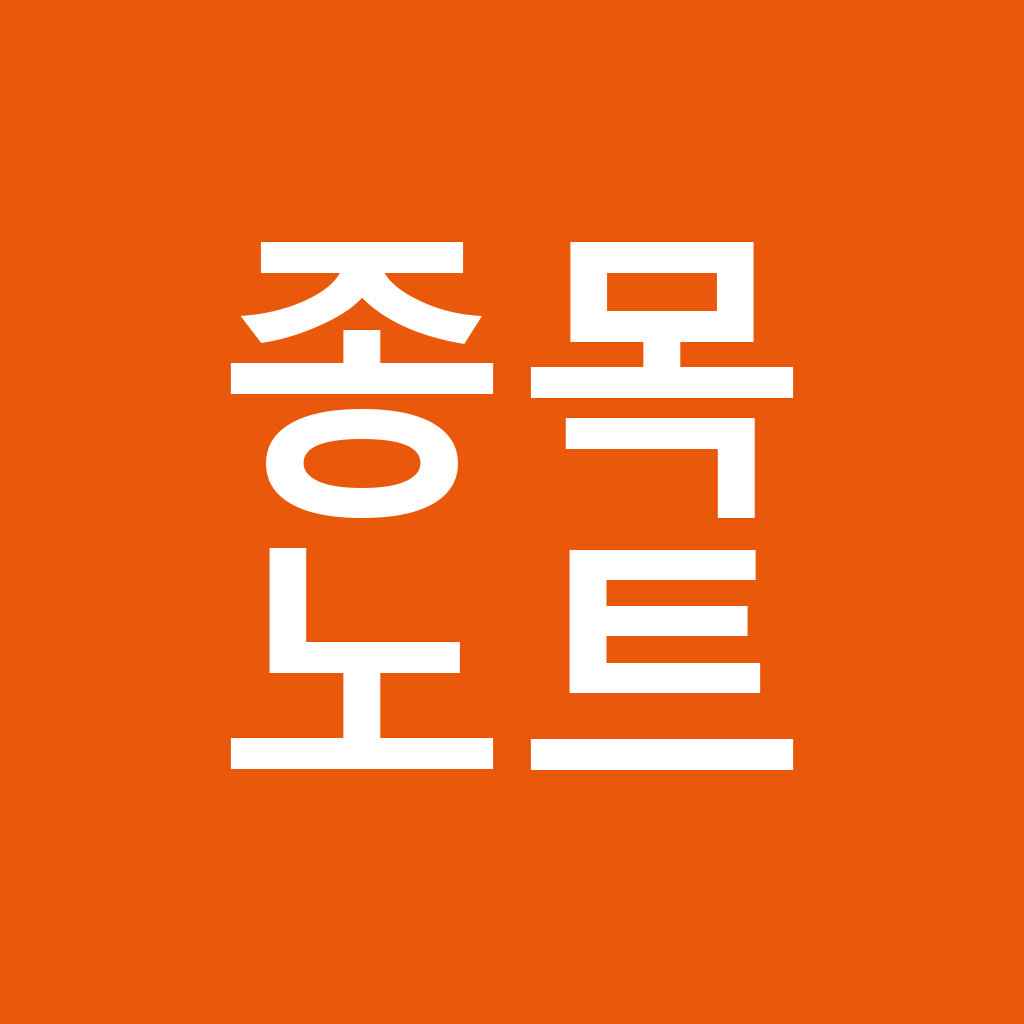
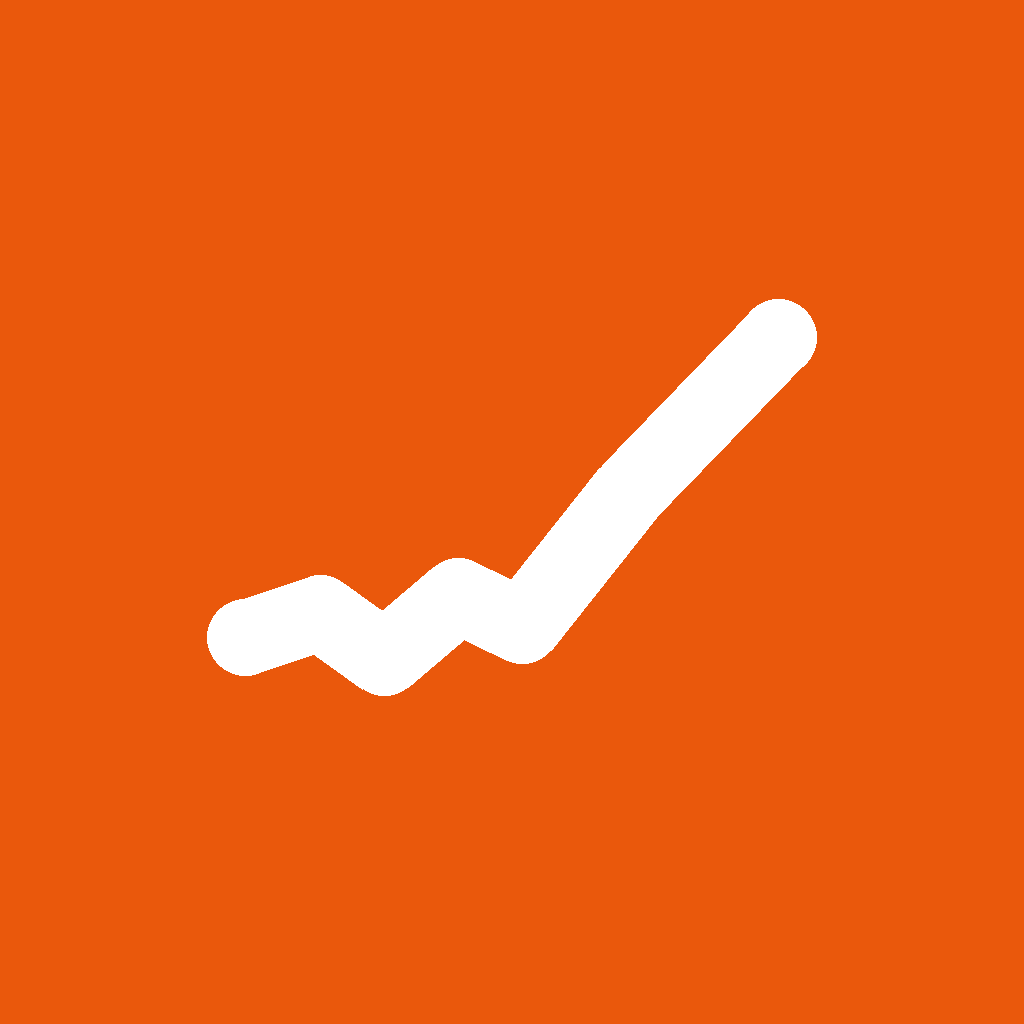
feat: 프로필 사진을 글자 대신 표식으로 바꾼다
프로필 사진이 실제로 노출되는 크기는 피드에서 40px 안팎이다. 그 크기에서
읽히느냐가 전부인데, 예전 안("종목노트" 2x2)을 40px로 줄여보면 네 글자의
획이 서로 붙어 흰 얼룩이 된다. 한 줄로 쓰던 것을 2x2로 접은 것이 이미 한
번의 개선이었지만, 한글 네 글자는 그 크기가 담을 수 있는 양을 넘는다.

후보 넷을 그려 40px로 줄여 비교했다. 점선 저항선을 얹은 안은 점선이
노이즈가 되고, 글자만 키운 안은 여전히 뭉갠다. 글자를 빼고 표식 하나만
남긴 안이 분명히 나았다.

표식은 바닥을 다지다 위로 뚫고 나가는 선이다. stage2.kr이라는 이름이
가리키는 것이 그대로 이 모양이라, 사이트가 하는 일과 표식이 같은 말을
한다. 소개 페이지에 그린 주가 4단계 그림과도 이어진다.

바탕 주황(card.ACCENT)은 그대로 둔다. 작은 크기에서 계정을 알아보게
하는 건 모양보다 색 덩어리고, 피드에 뜬 카드와 프로필이 한 계정으로
읽히려면 같은 주황이어야 한다.

선 두께는 1024에서 76이다. 40px로 줄면 약 3px이 된다. 더 얇으면 축소
과정에서 회색으로 흐려지고, 두꺼우면 곡선의 방향이 뭉개진다.

피드 40px / 댓글 80px / 프로필 150px에서 모두 읽히는 것을 확인했다.
원형 크롭도 다시 쟀다. 표식의 가장 먼 끝이 중심에서 389px이고 원의
반지름은 512px이라 잘리지 않는다.

Claude-Session: https://claude.ai/code/session_01Md3x43wFQqhurwHYex514T

Changed region(s): [[0.1875, 0.2188, 0.8125, 0.75]]

diff --git a/scripts/make_avatar.py b/scripts/make_avatar.py
@@ -2,19 +2,29 @@
 """
 SNS 프로필 사진을 그린다.
 
-프로필 사진은 피드에서 40px 안팎으로 뜬다. 예전 아바타는 "stage2"를
-가로로 얹어서 그 크기에서는 글자가 아예 뭉갰다. 그래서 두 가지를 지킨다.
+프로필 사진이 실제로 노출되는 크기는 피드에서 40px 안팎이다. 그 크기에서
+읽히느냐가 전부고, 1024px로 봤을 때 예쁜지는 거의 상관이 없다.
 
-1. 글자는 2x2로 접는다. "종목노트"를 한 줄로 쓰면 40px에서 못 읽는다.
-2. 바탕을 강조색으로 꽉 채운다. 작은 크기에서 실제로 계정을 알아보게
-   하는 건 글자가 아니라 색 덩어리다. 카드 위쪽 띠와 같은 주황이라
-   피드에 뜬 카드와 프로필이 한 계정으로 읽힌다.
+예전 안은 "종목노트"를 2x2로 접어 넣었다. 한 줄보다는 나았지만 40px로
+줄여보면 네 글자의 획이 서로 붙어 흰 얼룩이 된다. 실제로 줄여서 확인했다.
+한글 네 글자는 그 크기에 담을 수 있는 정보량을 넘는다.
 
-글자는 흰색이다. 수치상 대비는 진한 글씨가 더 높지만(4.98 대 3.56),
-40px로 줄여보면 진한 획이 주황 중간톤에 묻혀 뭉개진다. 실제로 노출되는
-크기에서 읽히는 쪽을 골랐다.
+그래서 글자를 빼고 표식 하나만 남긴다.
 
-플랫폼이 정사각을 원으로 잘라내므로 글자를 안쪽 원 안에 둔다.
+  바닥을 다지다 위로 뚫고 나가는 선
+
+stage2.kr이라는 이름이 가리키는 것이 그대로 이 모양이다. 주가가 오래
+눌려 있다가(1단계) 방향을 틀어 올라가는(2단계) 구간만 찾는다는 뜻이고,
+사이트가 하는 일과 표식이 같은 말을 한다.
+
+바탕은 카드 위쪽 띠와 같은 주황(card.ACCENT)이다. 작은 크기에서 계정을
+알아보게 하는 건 모양보다 색 덩어리다. 피드에 뜬 카드와 프로필이 한
+계정으로 읽히려면 같은 주황이어야 한다.
+
+선은 흰색이다. 수치상 대비는 진한 색이 더 높지만, 40px로 줄이면 진한
+획이 주황 중간톤에 묻힌다. 실제로 노출되는 크기에서 읽히는 쪽을 골랐다.
+
+플랫폼이 정사각을 원으로 잘라내므로 표식을 안쪽 원에 넉넉히 넣는다.
 모서리는 잘려 나간다고 보면 된다.
 
 사용:
@@ -31,29 +41,52 @@ from social import card  # noqa: E402
 
 OUT = card.ROOT / "assets" / "avatar.png"
 
-# 인스타는 320px로 줄여 쓰지만, 원본을 크게 올려두면 나중에 다른 데
-# 쓸 때 다시 그릴 일이 없다.
+# 인스타는 320px로 줄여 쓰지만, 원본을 크게 두면 나중에 다른 데 쓸 때
+# 다시 그릴 일이 없다.
 S = 1024
-LINES = ["종목", "노트"]
-GAP = 30
 FG = (255, 255, 255)
+
+# 선 두께. 1024에서 76이면 40px로 줄었을 때 약 3px이 된다. 이보다 얇으면
+# 축소 과정에서 회색으로 흐려지고, 두꺼우면 곡선의 방향이 뭉개진다.
+STROKE = 76
+
+# 표식이 들어갈 자리. 원 안쪽에 여백을 두고 가운데에 앉힌다.
+MARK_W = 0.52   # 캔버스 대비 가로 폭
+MARK_H = 0.34   # 세로 높이
+
+# 표식의 뼈대. (0,0)~(1,1) 정규 좌표이고 y는 아래가 크다.
+# 앞쪽 절반은 바닥 다지기라 위아래로 조금씩 흔들리고, 뒤쪽에서 위로 뚫는다.
+SKELETON = [
+    (0.00, 0.86),
+    (0.14, 0.79),
+    (0.26, 0.92),
+    (0.40, 0.74),
+    (0.52, 0.83),
+    (0.72, 0.44),
+    (1.00, 0.00),
+]
+
+
+def _points():
+    """뼈대를 실제 픽셀 좌표로 옮긴다. 표식 전체를 캔버스 가운데에 맞춘다."""
+    w, h = MARK_W * S, MARK_H * S
+    x0 = (S - w) / 2
+    y0 = (S - h) / 2
+    return [(x0 + px * w, y0 + py * h) for px, py in SKELETON]
 
 
 def render(out_path=OUT):
     img = Image.new("RGB", (S, S), card.ACCENT)
     d = ImageDraw.Draw(img)
-    f = card._font(True, 300)
 
-    # 폰트 메트릭에는 글자 위아래로 여백이 들어 있어서, 그 값으로 가운데를
-    # 맞추면 눈에는 위로 치우쳐 보인다. 실제 글자 경계로 다시 잰다.
-    boxes = [d.textbbox((0, 0), t, font=f) for t in LINES]
-    heights = [b[3] - b[1] for b in boxes]
+    pts = _points()
+    d.line(pts, fill=FG, width=STROKE, joint="curve")
 
-    y = (S - (sum(heights) + GAP * (len(LINES) - 1))) // 2
-    for text, box, h in zip(LINES, boxes, heights):
-        w = box[2] - box[0]
-        d.text(((S - w) // 2 - box[0], y - box[1]), text, font=f, fill=FG)
-        y += h + GAP
+    # joint="curve"는 이음매만 둥글게 하고 양 끝은 각진 채로 둔다.
+    # 끝에 원을 하나씩 찍어야 선이 잘린 것처럼 보이지 않는다.
+    r = STROKE / 2
+    for x, y in (pts[0], pts[-1]):
+        d.ellipse((x - r, y - r, x + r, y + r), fill=FG)
 
     return card._save(img, out_path)
 
